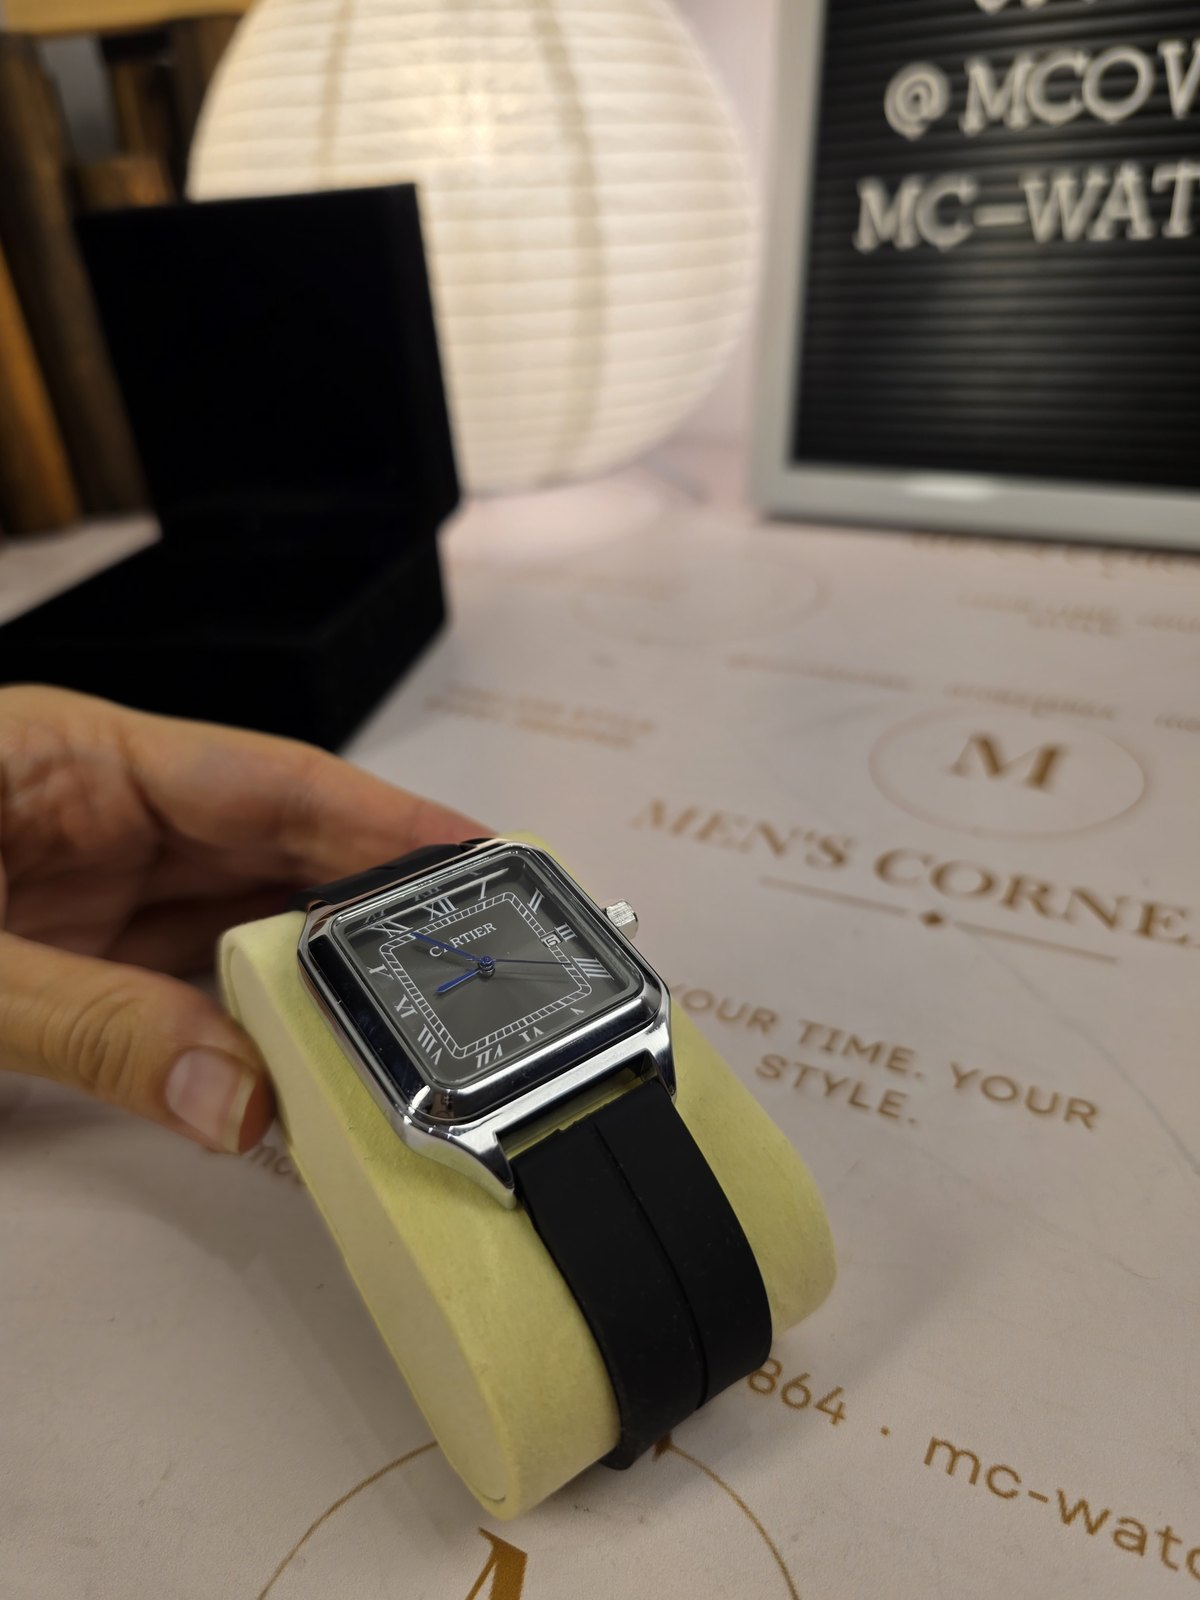
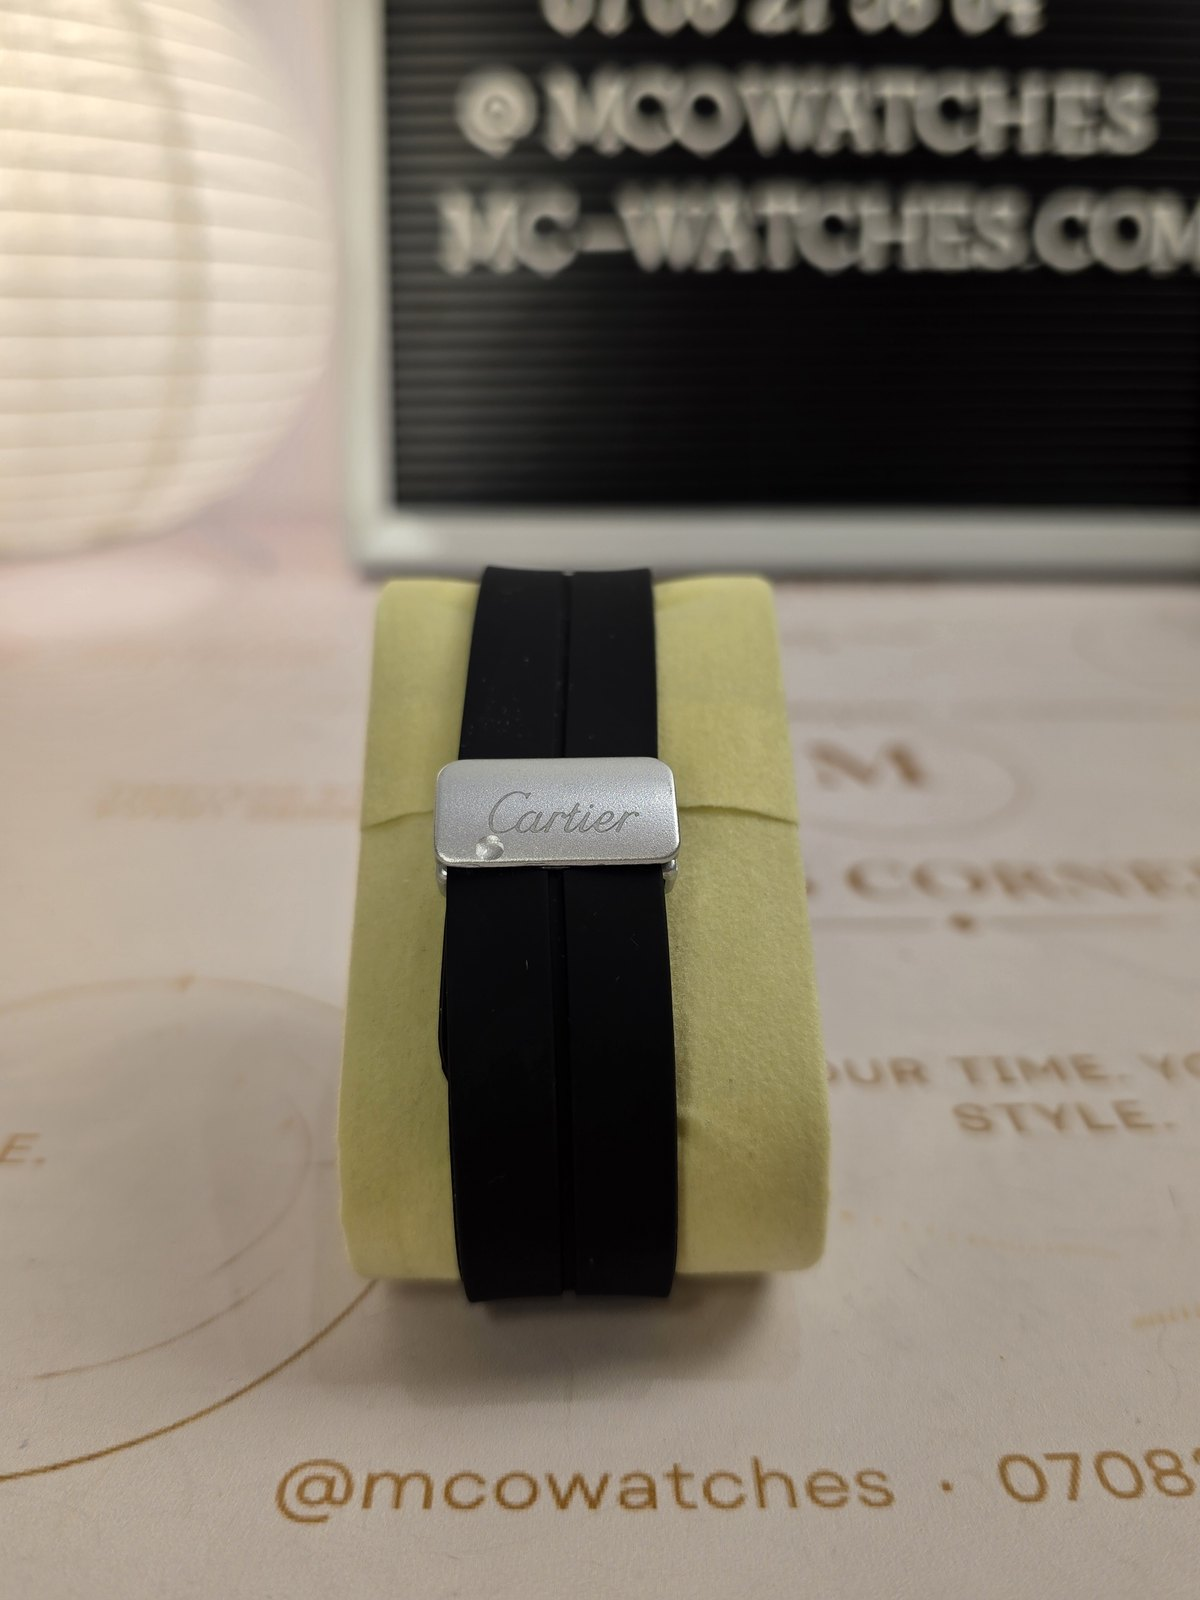
MC-07 : la photo ou on voit la main saute
Reste la montre seule, sur son coussin et en gros plan du fermoir.

diff --git a/index.html b/index.html
@@ -52,10 +52,10 @@
     } catch (e) {}
   })();
   </script>
-  <link rel="stylesheet" href="styles.css?v=37">
-  <script src="data.js?v=37" defer></script>
-  <script src="i18n.js?v=37" defer></script>
-  <script src="site.js?v=37" defer></script>
+  <link rel="stylesheet" href="styles.css?v=38">
+  <script src="data.js?v=38" defer></script>
+  <script src="i18n.js?v=38" defer></script>
+  <script src="site.js?v=38" defer></script>
   <script type="application/ld+json">
 {
   "@context": "https://schema.org",

diff --git a/livraison.html b/livraison.html
@@ -52,10 +52,10 @@
     } catch (e) {}
   })();
   </script>
-  <link rel="stylesheet" href="styles.css?v=37">
-  <script src="data.js?v=37" defer></script>
-  <script src="i18n.js?v=37" defer></script>
-  <script src="site.js?v=37" defer></script>
+  <link rel="stylesheet" href="styles.css?v=38">
+  <script src="data.js?v=38" defer></script>
+  <script src="i18n.js?v=38" defer></script>
+  <script src="site.js?v=38" defer></script>
   <script type="application/ld+json">
 {
   "@context": "https://schema.org",

diff --git a/404.html b/404.html
@@ -54,10 +54,10 @@
     } catch (e) {}
   })();
   </script>
-  <link rel="stylesheet" href="styles.css?v=37">
-  <script src="data.js?v=37" defer></script>
-  <script src="i18n.js?v=37" defer></script>
-  <script src="site.js?v=37" defer></script>
+  <link rel="stylesheet" href="styles.css?v=38">
+  <script src="data.js?v=38" defer></script>
+  <script src="i18n.js?v=38" defer></script>
+  <script src="site.js?v=38" defer></script>
 </head>
 <body>
   <a class="skip-link" href="#contenu">Aller au contenu</a>

diff --git a/panier.html b/panier.html
@@ -53,10 +53,10 @@
     } catch (e) {}
   })();
   </script>
-  <link rel="stylesheet" href="styles.css?v=37">
-  <script src="data.js?v=37" defer></script>
-  <script src="i18n.js?v=37" defer></script>
-  <script src="site.js?v=37" defer></script>
+  <link rel="stylesheet" href="styles.css?v=38">
+  <script src="data.js?v=38" defer></script>
+  <script src="i18n.js?v=38" defer></script>
+  <script src="site.js?v=38" defer></script>
 </head>
 <body>
   <a class="skip-link" href="#contenu">Aller au contenu</a>

diff --git a/produit.html b/produit.html
@@ -52,10 +52,10 @@
     } catch (e) {}
   })();
   </script>
-  <link rel="stylesheet" href="styles.css?v=37">
-  <script src="data.js?v=37" defer></script>
-  <script src="i18n.js?v=37" defer></script>
-  <script src="site.js?v=37" defer></script>
+  <link rel="stylesheet" href="styles.css?v=38">
+  <script src="data.js?v=38" defer></script>
+  <script src="i18n.js?v=38" defer></script>
+  <script src="site.js?v=38" defer></script>
 </head>
 <body>
   <a class="skip-link" href="#contenu">Aller au contenu</a>

diff --git a/produits.html b/produits.html
@@ -52,10 +52,10 @@
     } catch (e) {}
   })();
   </script>
-  <link rel="stylesheet" href="styles.css?v=37">
-  <script src="data.js?v=37" defer></script>
-  <script src="i18n.js?v=37" defer></script>
-  <script src="site.js?v=37" defer></script>
+  <link rel="stylesheet" href="styles.css?v=38">
+  <script src="data.js?v=38" defer></script>
+  <script src="i18n.js?v=38" defer></script>
+  <script src="site.js?v=38" defer></script>
 </head>
 <body>
   <a class="skip-link" href="#contenu">Aller au contenu</a>

diff --git a/data.js b/data.js
@@ -141,7 +141,7 @@ window.MC = {
       prix: 249,
       couleurs: [
         { nom: "Gris", code: "#6E7276",
-          photos: ["images/mc07/GRIS1.jpg", "images/mc07/GRIS2.jpg", "images/mc07/GRIS3.jpg", "images/mc07/GRIS4.jpg", "images/mc07/GRIS5.jpg"] }
+          photos: ["images/mc07/GRIS1.jpg", "images/mc07/GRIS2.jpg", "images/mc07/GRIS3.jpg", "images/mc07/GRIS4.jpg"] }
       ],
       photosCommunes: []
     },
